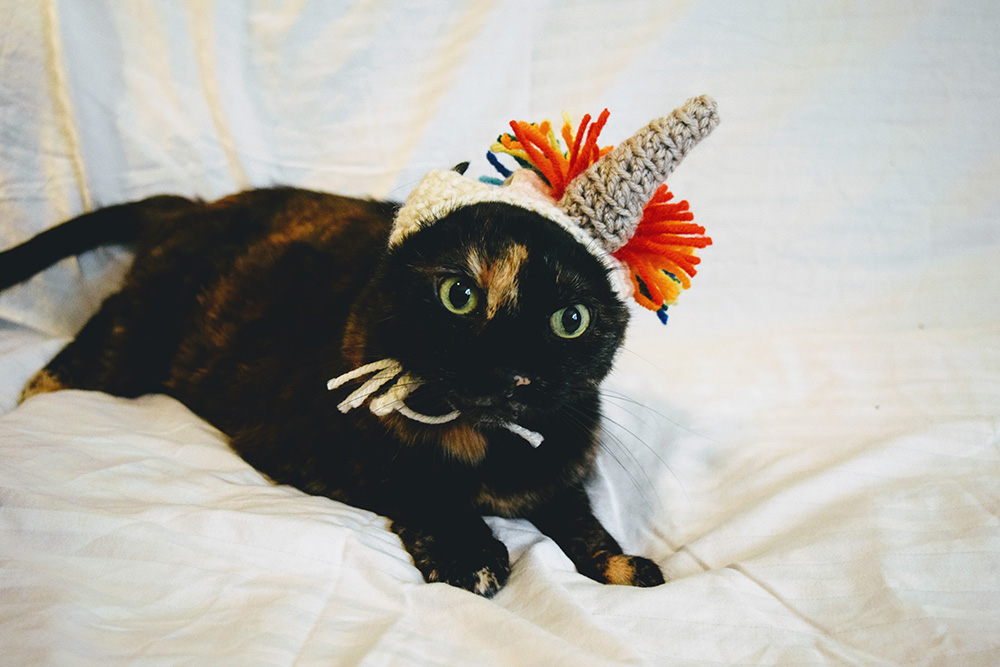
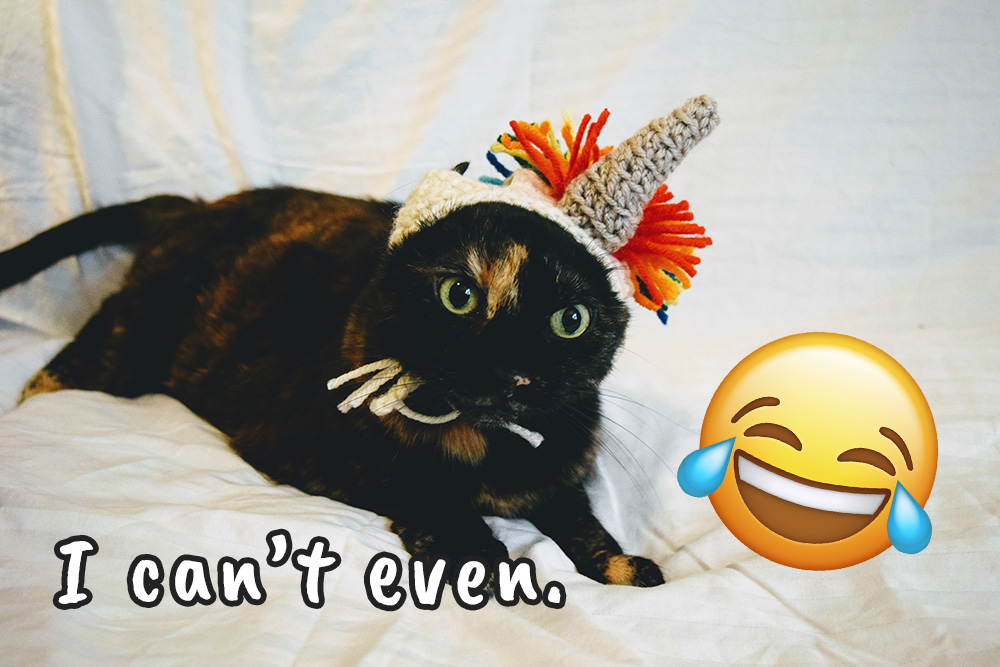
More refinements
And adding jazziness to photos

Changed region(s): [[0.651, 0.4798, 0.961, 0.8696], [0.031, 0.7796, 0.589, 0.9295]]

diff --git a/index.css b/index.css
@@ -171,10 +171,9 @@ li{
 /************** FRAME **************/
 
 #view-frame{
-  width:100%;
-  z-index: 1;
   box-shadow: 0 4px 8px 0 rgba(0, 0, 0, 0.2), 0 6px 20px 0 rgba(0, 0, 0, 0.19);
   position: relative;
+
 }
 
 
@@ -314,8 +313,7 @@ li{
 
 @media only screen and (min-width: 700px)  {
 #view-frame{
-  width:75%;
-  z-index: 1;
+  width:45%;
   margin-left:auto;
   margin-right:auto;
 }
@@ -344,6 +342,9 @@ li{
 #smiles-button{
 	font-size: 2.85em;
 	width:60%;
+
+	height: 60px;
+	line-height: 60px;
 }
 
 
@@ -352,7 +353,6 @@ li{
 
 @media only screen and (min-width: 1100px)  {
 #view-frame{
-  width:65%;
   z-index: 1;
   margin-left:auto;
   margin-right:auto;
